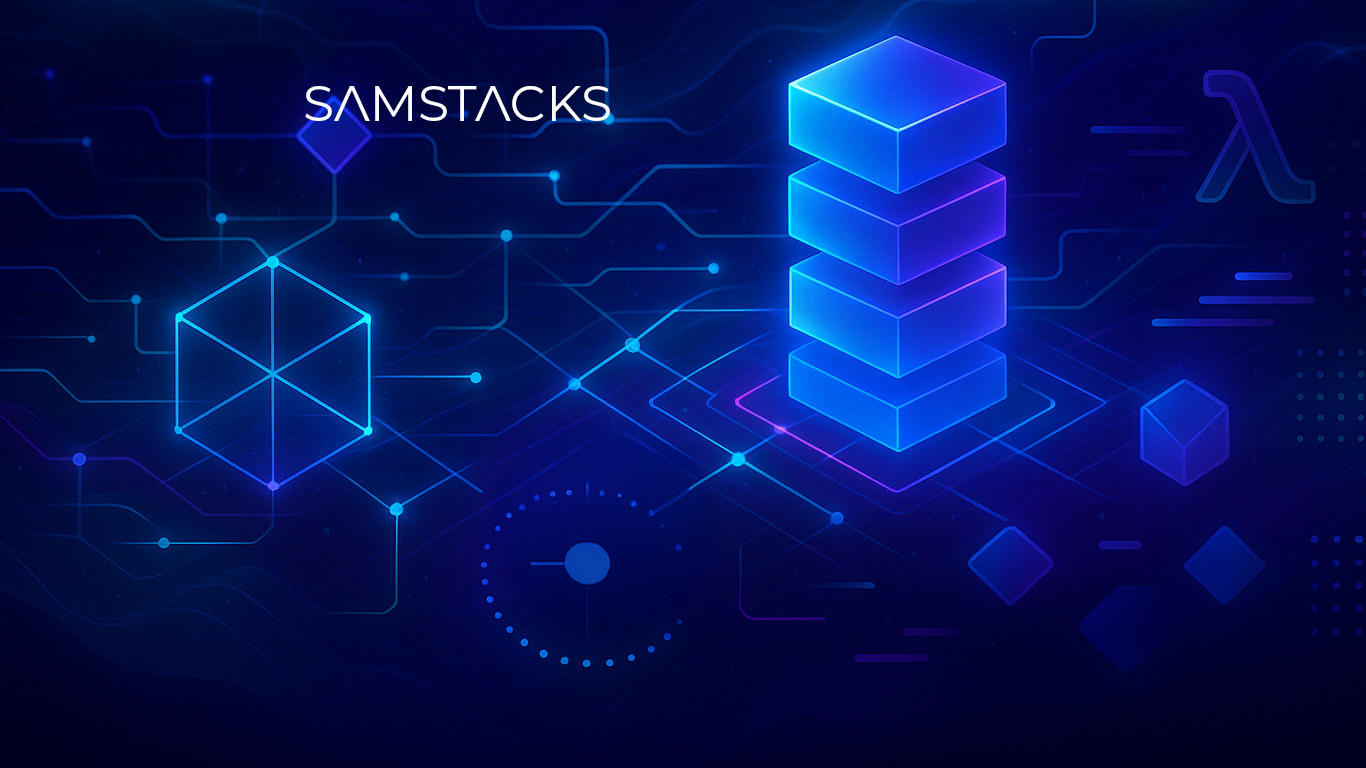
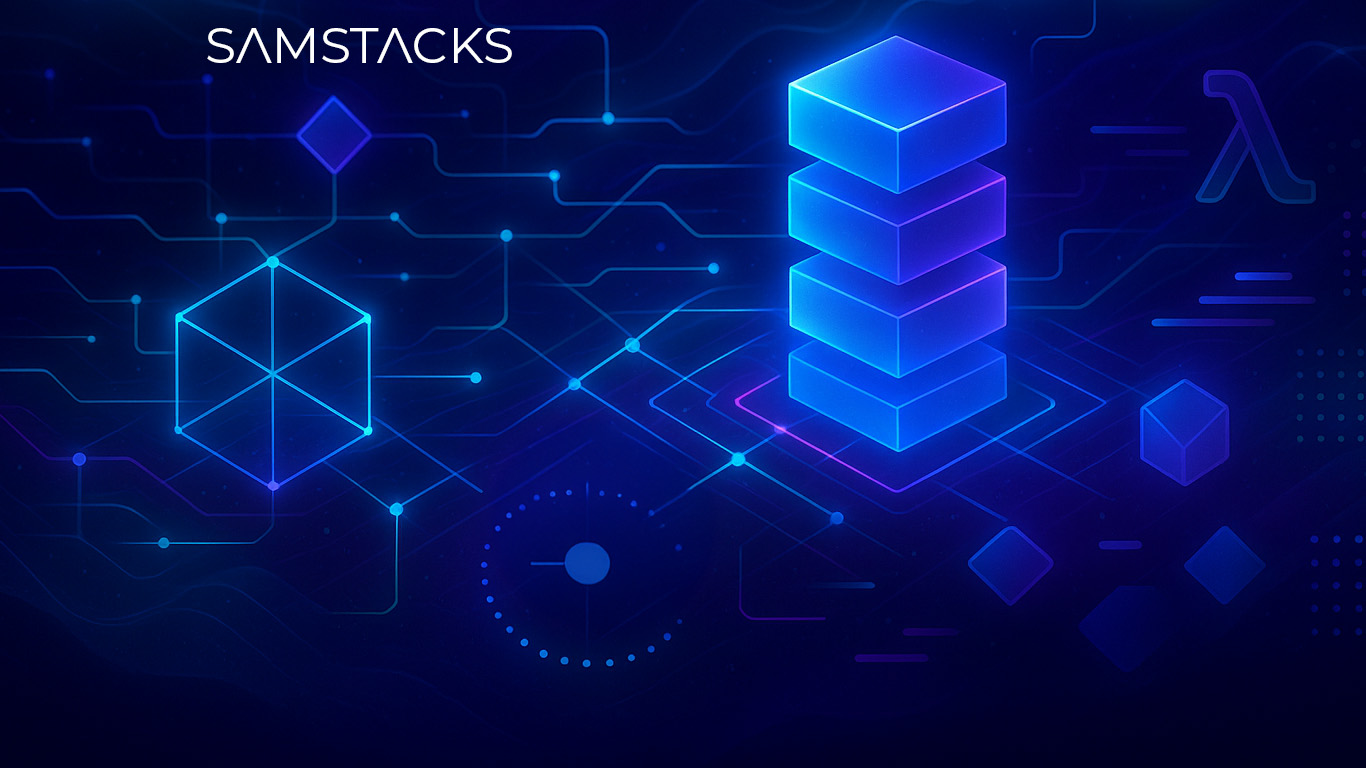
docs: update hero section styles and content
- Adjusted background size of the hero section for better responsiveness.
- Added a new hero description paragraph to enhance content clarity.
- Introduced additional styles for hero description to improve visual presentation.
- Removed outdated parallax script to streamline the documentation page.

Changed region(s): [[0.1537, 0.0312, 0.4612, 0.1562]]

diff --git a/docs/static/js/parallax.js b/docs/static/js/parallax.js
@@ -1,0 +1,61 @@
+// Enhanced parallax scrolling effect for hero section
+(function() {
+  'use strict';
+  
+  function initParallax() {
+    const hero = document.getElementById('hero-parallax');
+    if (!hero) {
+      return; // Hero element not found, exit silently
+    }
+    
+    // Check if user prefers reduced motion
+    const prefersReducedMotion = window.matchMedia('(prefers-reduced-motion: reduce)').matches;
+    if (prefersReducedMotion) {
+      return; // Respect user preference for reduced motion
+    }
+    
+    let ticking = false;
+    
+    function updateParallax() {
+      const scrolled = window.pageYOffset;
+      
+      // Calculate parallax effect
+      const parallaxSpeed = 0.3; // Slower for more subtle effect
+      const yPos = scrolled * parallaxSpeed;
+      
+      // Apply the parallax effect
+      const newPosition = `center ${-yPos}px`;
+      hero.style.backgroundPosition = newPosition;
+      
+      ticking = false;
+    }
+    
+    function requestTick() {
+      if (!ticking) {
+        requestAnimationFrame(updateParallax);
+        ticking = true;
+      }
+    }
+    
+    // Set initial background position
+    hero.style.backgroundPosition = 'center 0px';
+    
+    // Add scroll listener with passive option for better performance
+    window.addEventListener('scroll', requestTick, { passive: true });
+    
+    // Test the function immediately
+    updateParallax();
+    
+    // Cleanup on page unload
+    window.addEventListener('beforeunload', function() {
+      window.removeEventListener('scroll', requestTick);
+    });
+  }
+  
+  // Initialize when DOM is ready
+  if (document.readyState === 'loading') {
+    document.addEventListener('DOMContentLoaded', initParallax);
+  } else {
+    initParallax();
+  }
+})(); 

diff --git a/docs/assets/css/custom.css b/docs/assets/css/custom.css
@@ -6,7 +6,7 @@
 /* Hero Section Styles - Full Width & Theme Aware with Background Parallax */
 body .hero-section {
   background-image: url('/samstacks/images/samstacks-hero.jpg') !important;
-  background-size: 130% auto !important;
+  background-size: 100% auto !important;
   background-position: center 0px;
   background-repeat: no-repeat !important;
   height: 50vh !important;
@@ -70,8 +70,21 @@ body .hero-cta {
   gap: 1rem !important;
   flex-wrap: wrap !important;
   justify-content: center !important;
+  margin-top: 40% !important;
 }
 
+body p.hero-description {
+  font-size: 1.5rem !important;  
+}
+
+body .hero-description {
+  font-size: 1.1rem !important;
+  font-weight: 400 !important;
+  margin-bottom: 2rem !important;
+  line-height: 1.5 !important;
+  color: #fff !important;
+  opacity: 0.9 !important;
+}
 body .hero-button {
   display: inline-block !important;
   padding: 0.75rem 2rem !important;
@@ -161,6 +174,10 @@ html[class~="dark"] body .hero-button-secondary:hover {
   
   body .hero-subtitle {
     font-size: 0.5rem !important;
+  }
+
+  body p.hero-description {
+    font-size: 1.2rem !important;  
   }
   
   body .hero-cta {

diff --git a/docs/content/_index.md b/docs/content/_index.md
@@ -6,95 +6,14 @@ showTitle: false
 
 <div class="hero-section" id="hero-parallax">
   <div class="hero-content">
-    <p class="hero-subtitle">Declarative infrastructure orchestration for AWS SAM deployments.    
     <div class="hero-cta">
       <a href="/samstacks/docs/quickstart" class="hero-button hero-button-primary">Get Started</a>
       <a href="/samstacks/docs" class="hero-button hero-button-secondary">Documentation</a>
     </div>
+    <p class="hero-description">Declarative infrastructure orchestration for AWS SAM deployments.</p>
   </div>
 </div>
 
-<script>
-// Enhanced parallax scrolling effect with debugging
-(function() {
-  console.log('Parallax script loading...');
-  
-  // Wait for DOM to be ready
-  function initParallax() {
-    const hero = document.getElementById('hero-parallax');
-    if (!hero) {
-      console.log('Hero element not found');
-      return;
-    }
-    
-    console.log('Hero element found, initializing parallax...');
-    
-    // Check if user prefers reduced motion
-    const prefersReducedMotion = window.matchMedia('(prefers-reduced-motion: reduce)').matches;
-    if (prefersReducedMotion) {
-      console.log('Reduced motion preferred, skipping parallax');
-      return;
-    }
-    
-    console.log('Parallax conditions met, setting up scroll listener...');
-    
-    let ticking = false;
-    
-    function updateParallax() {
-      const scrolled = window.pageYOffset;
-      const heroRect = hero.getBoundingClientRect();
-      const heroTop = heroRect.top + scrolled;
-      const heroHeight = heroRect.height;
-      
-      // Calculate parallax effect
-      const parallaxSpeed = 0.3; // Slower for more subtle effect
-      const yPos = scrolled * parallaxSpeed;
-      
-      // Apply the parallax effect
-      const newPosition = `center ${-yPos}px`;
-      hero.style.backgroundPosition = newPosition;
-      
-      // Debug output (remove in production)
-      if (scrolled % 50 === 0) { // Log every 50px of scroll
-        console.log(`Scroll: ${scrolled}px, BG Position: ${newPosition}`);
-      }
-      
-      ticking = false;
-    }
-    
-    function requestTick() {
-      if (!ticking) {
-        requestAnimationFrame(updateParallax);
-        ticking = true;
-      }
-    }
-    
-    // Set initial background position
-    hero.style.backgroundPosition = 'center 0px';
-    console.log('Initial background position set');
-    
-    // Add scroll listener
-    window.addEventListener('scroll', requestTick, { passive: true });
-    console.log('Scroll listener added');
-    
-    // Test the function immediately
-    updateParallax();
-    
-    // Cleanup on page unload
-    window.addEventListener('beforeunload', function() {
-      window.removeEventListener('scroll', requestTick);
-      console.log('Parallax cleanup completed');
-    });
-  }
-  
-  // Initialize when DOM is ready
-  if (document.readyState === 'loading') {
-    document.addEventListener('DOMContentLoaded', initParallax);
-  } else {
-    initParallax();
-  }
-})();
-</script>
 
 **samstacks** is a declarative infrastructure orchestration tool for AWS SAM deployments. It enables teams to define multi-stack deployment pipelines using familiar GitHub Actions syntax with automatic dependency resolution.
 
@@ -128,10 +47,11 @@ stacks:
     dir: ./application/app
     params:
       VpcId: ${{ stacks.vpc-stack.outputs.VpcId }}
-      SubnetIds: ${{ stacks.vpc-stack.outputs.PrivateSubnetIds }}
+      SubnetIds: ${{ stacks.vpc-stack.outputs.Private
 ```
-
 > [!NOTE]
 > This is a work in progress, and the implementation is subject to change.
 
-For more information, visit the [documentation](/samstacks/docs).
+For more information, visit the [documentation]({{< relref "docs" >}}). 
+
+<script src="/rearset/js/parallax.js"></script>
